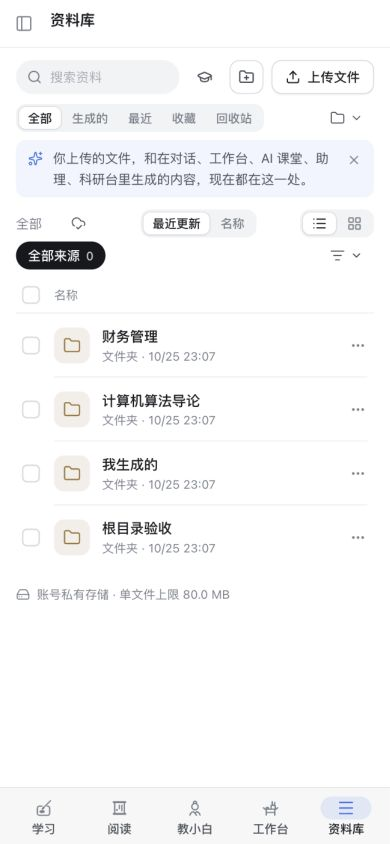
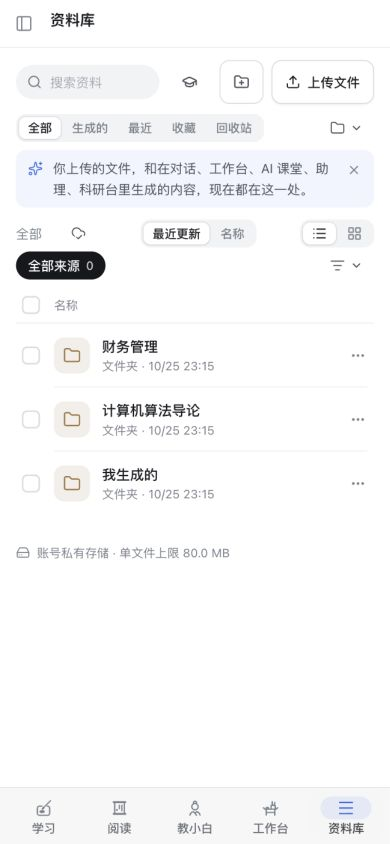
docs: record orchestration fixes and production acceptance

diff --git a/doc/qa-evidence/2026-10-25-operation-fixes/验收记录.md b/doc/qa-evidence/2026-10-25-operation-fixes/验收记录.md
@@ -23,9 +23,17 @@
 - 引擎仿真 1,567 项断言通过；生成的泄漏报告未发生差异。
 - 服务端完整测试：339 项通过。新增课程操作鉴权、共享原件保留、活跃任务阻止变更和 500 块稳定分页回归。
 - 浏览器：本地 IAB 使用隔离验收 API 与合成内容，不冒充生产账号验收。已实际创建根目录文件夹（请求 `parentId: null`）、切换来源筛选、编辑课程名、打开删除说明、验证 390×844 视口无横向溢出。长树 `scrollHeight=1094`、可见高度522、`overflow-y:auto`。
-- 三份课件按第1、第2、第10讲显示顺序；第一条编译请求仅提交第1讲的一个资产。截图使用合成课程，避免展示用户资料。
+- 三份课件按第1、第2、第10讲显示顺序；第一条编译请求仅提交第1讲的一个资产。刷新后待生成队列恢复，发布第1讲后剩2份，下一条请求只提交第2讲，草稿题名为第2讲。截图使用合成课程，避免展示用户资料。手机上传和新建文件夹入口实测均为44px高度，页面宽390px且无横向溢出。
 - 本次不会自动重编已发布的合并课程；需要在资料库按新分课方式逐课生成。原始文件选择与讲义选择仍保持独立的回答来源边界。
 
 ## 生产发布
 
-待填：代码提交、迁移恢复演练、真实模型编译、候选端口、切换后校验与公网资源校验。
+- 主体代码：`01653cb157d699eed678fcd4cd4dc95138e592e8`；最终代码：`e56af290d2276dbef7cb07a35adff781daef306e`。GitHub `main` 与 `codex/operation-fixes-20261025` 同步推送。
+- 首次整包发布：`20261025-operation-fixes-01653cb`；完整备份运行包、状态目录、配置、nginx、环境和 PostgreSQL dump 后，将生产备份恢复到临时 PostgreSQL 18。
+- 恢复库应用 `014_course_archive.sql`（共14个迁移，本次新增1个），真实执行课程改名、他人隔离、活跃任务阻挡、归档、共享原件保留与归档后拒绝编译，全部通过；验收数据仅写隔离恢复库，临时容器已移除。
+- 真实服务模型编译合成材料：521字教学正文、6条要点、0条阻断问题，封面邮箱/教师/学校/学期均未混入，提示版本 `custom-topic-v3`。该验证不发布任何用户课题。
+- 18079候选端口验证存储启动、首页、阅读入口和鉴权边界通过后切换整包；服务器核对1018个文件。最初81个变更公开资源全部hash匹配。
+- 最后补齐不带“是”的候选问法和协商轮打断卡壳计数，前端发布为 `20261025-operation-fixes-e56af29`。后台未再次重启，PID `2501450`；配置和环境未变。最终50个变更公开资源全部hash匹配。
+- 备份：`/var/backups/xiaobai/20261025-operation-fixes-01653cb`（含数据库、运行包和切换前完整目录）及 `/var/backups/xiaobai/20261025-operation-fixes-e56af29`（前端回滚目录）。迁移仅新增可空字段，旧运行包可兼容。
+- 正式服务与既有隔离测试服务均为active；没有修改后台配置、账号、DNS或上游凭据。公网 `/api/me` 200，未登录资料库、课程和后台接口401，阅读入口200。
+- 正式网页可正常加载并转到登录门禁；本次没有用真实用户账号执行课程改名/删除或重编。页面交互验证使用本地隔离API，真实模型和数据库行为分别验证。实体手机与真实用户已发布课程的内容质量未在本次自动验收中逐一复核。
